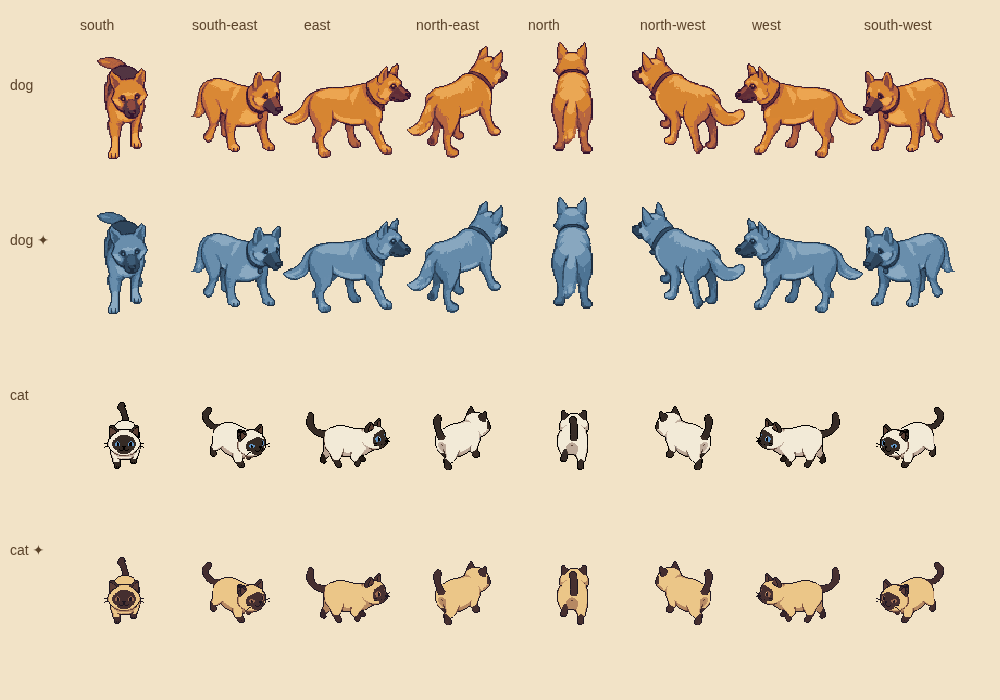
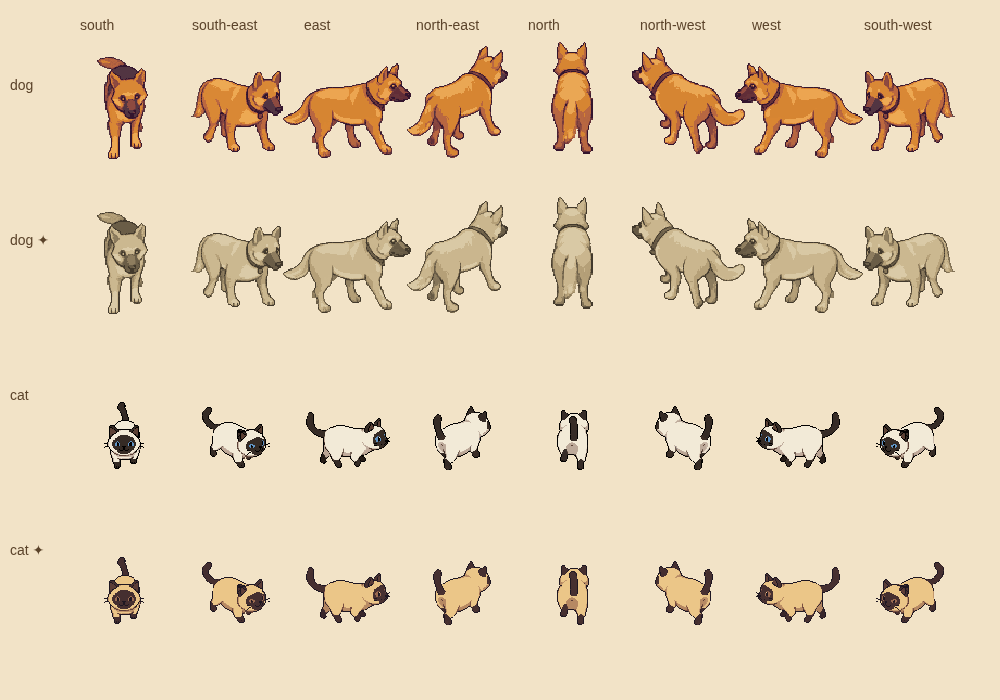
Use natural cream and brown fur for special dogs

diff --git a/src/dungeons/pet-appearance.ts b/src/dungeons/pet-appearance.ts
@@ -2,9 +2,9 @@ import type { PetSpecies } from "./config";
 
 const COLORS = {
   dog: [
-    [14, 22, 34],
-    [83, 124, 158],
-    [224, 239, 247],
+    [28, 23, 19],
+    [194, 172, 129],
+    [255, 249, 226],
   ],
   cat: [
     [29, 22, 34],

diff --git a/docs/dungeons/companheiros-colecao/RELATORIO.md b/docs/dungeons/companheiros-colecao/RELATORIO.md
@@ -19,7 +19,7 @@ Os saves existentes reutilizam o campo `rare`; não há perda de coleção ou ne
 
 ## Cores e coleção
 
-As variantes especiais usam paletas provisórias: cão azul-prateado e gato dourado. As texturas são criadas uma vez no cache do jogo a partir das animações originais. Todos os quadros, posições, escalas, pivôs e valores de transparência são preservados. Os PNGs e ZIPs originais não são alterados. As mesmas cores aparecem nas dungeons, no mundo normal e nos retratos dos menus.
+As variantes especiais usam paletas provisórias: cão creme/caramelo, com focinho e sombras em marrom, e gato dourado. As texturas são criadas uma vez no cache do jogo a partir das animações originais. Todos os quadros, posições, escalas, pivôs e valores de transparência são preservados. Os PNGs e ZIPs originais não são alterados. As mesmas cores aparecem nas dungeons, no mundo normal e nos retratos dos menus.
 
 Acesso: **Menu do jogo → Companheiros → Ver coleção de pets**. A coleção mostra as quatro variações, os bônus, o estado de desbloqueio e a quantidade resgatada. Só permite equipar animais já pertencentes ao jogador. A variação comum e a especial têm desbloqueios separados. Duplicatas não aumentam o contador de variações descobertas. A identificação usa apenas o ícone ✦ junto ao nome.
 
@@ -56,3 +56,6 @@ Após a integração, a suíte completa passou com **1.195 testes em 133 arquivo
 
 - [Caminhada nas oito direções, comuns e variantes](caminhada-oito-direcoes.png)
 - Validação final no Chromium: proporções, enquadramento responsivo e texturas de caminhada nas oito direções aprovadas.
+
+
+A pelagem azul do cão especial foi substituída por creme/caramelo a pedido do usuário. Apenas a paleta muda: escala, silhueta, quadros e transparência permanecem iguais.
